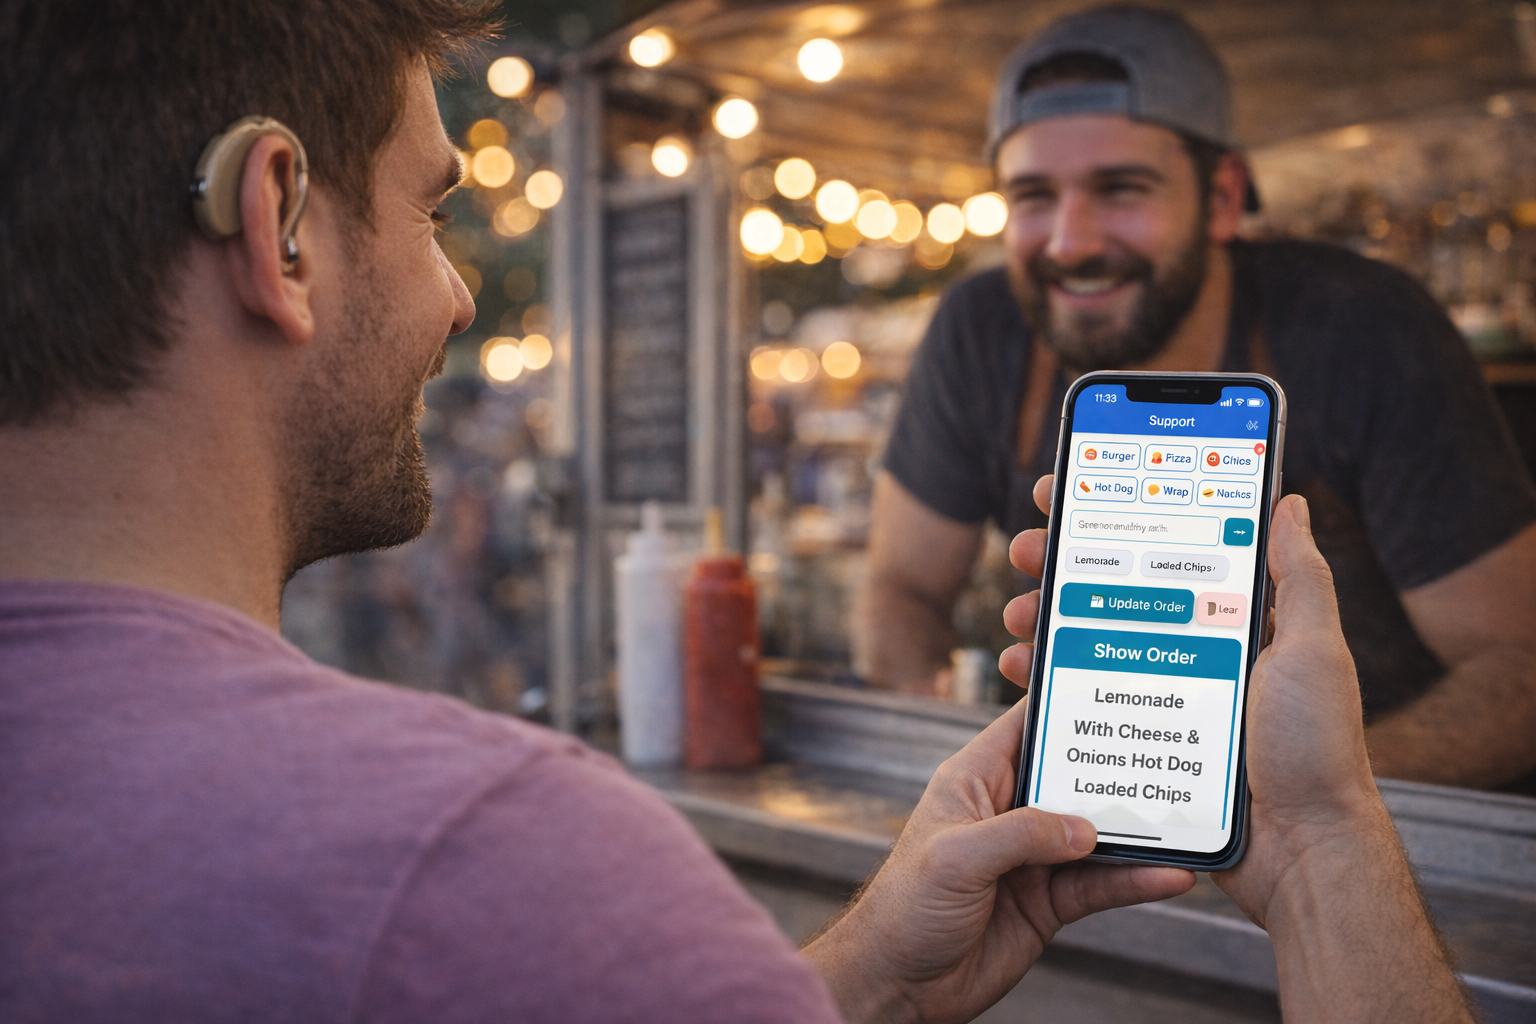
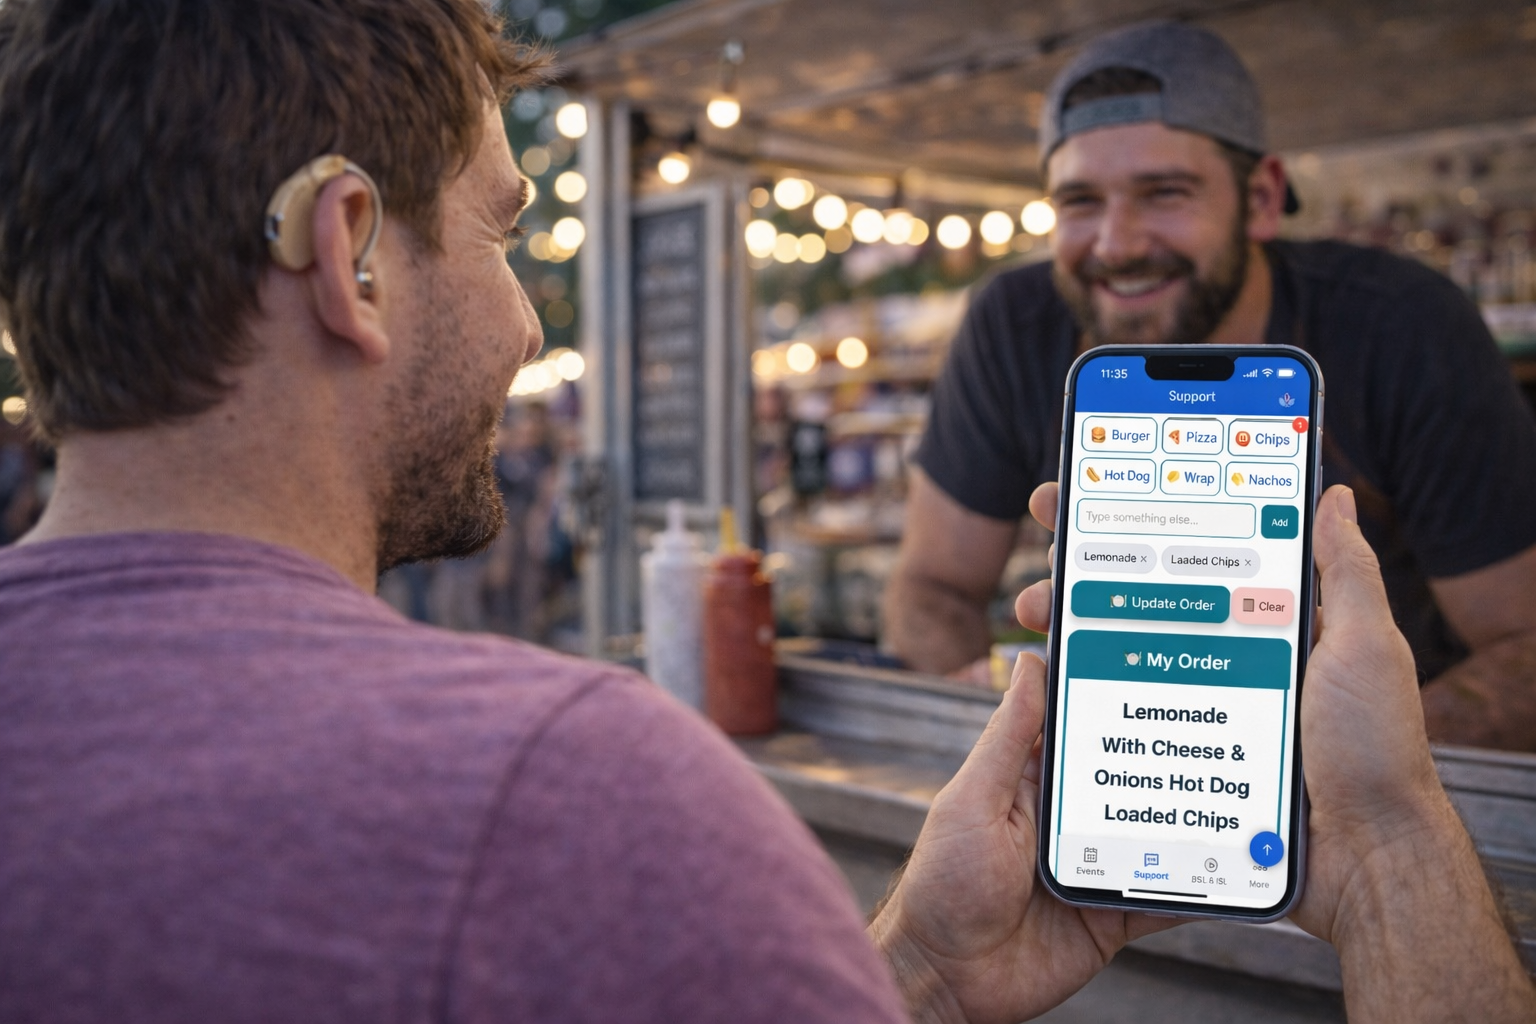
Uniform ordering section, app promo fixes, updated hero image
- Interpreters page: added PI uniform ordering section linking to Deco Apparel portal
- App promo modal: swapped to order video, neutral copy, hidden on /deaf-community and /app-guide
- Deaf community hero: updated composite image (ChatGPT-blended order screen on phone)

diff --git a/components/app-promo-banner.tsx b/components/app-promo-banner.tsx
@@ -1,14 +1,21 @@
 "use client";
 
 import { useState, useEffect, useRef } from "react";
+import { usePathname } from "next/navigation";
 import Link from "next/link";
 
+const HIDE_ON = ["/deaf-community", "/app-guide"];
+
 export default function AppPromoBanner() {
+  const pathname = usePathname();
   const [open, setOpen] = useState(false);
   const [dismissed, setDismissed] = useState(false);
   const videoRef = useRef<HTMLVideoElement>(null);
 
+  const hidden = HIDE_ON.some((p) => pathname.startsWith(p));
+
   useEffect(() => {
+    if (hidden) return;
     if (sessionStorage.getItem("app-promo-dismissed")) {
       setDismissed(true);
       return;
@@ -23,7 +30,7 @@ export default function AppPromoBanner() {
 
     window.addEventListener("scroll", onScroll, { passive: true });
     return () => window.removeEventListener("scroll", onScroll);
-  }, []);
+  }, [hidden]);
 
   useEffect(() => {
     if (open && videoRef.current) {
@@ -37,7 +44,7 @@ export default function AppPromoBanner() {
     sessionStorage.setItem("app-promo-dismissed", "1");
   }
 
-  if (dismissed) return null;
+  if (dismissed || hidden) return null;
 
   return (
     <>
@@ -77,7 +84,7 @@ export default function AppPromoBanner() {
           <div className="aspect-[1700/1004] w-full bg-black">
             <video
               ref={videoRef}
-              src="/videos/app-guide/request.mp4"
+              src="/videos/app-guide/order.mp4"
               muted
               loop
               playsInline
@@ -89,13 +96,13 @@ export default function AppPromoBanner() {
           {/* Content */}
           <div className="px-6 py-6 text-center sm:px-8 sm:py-8">
             <p className="text-xs font-semibold uppercase tracking-widest text-pi-accent">
-              Only with PI
+              The PI Events App
             </p>
             <h2 className="mt-2 font-display text-2xl text-white sm:text-3xl">
-              Your Deaf audience has a dedicated app
+              See the app in action
             </h2>
             <p className="mx-auto mt-3 max-w-lg text-sm leading-relaxed text-white/70 sm:text-base">
-              Request access, find events, order food, know your rights - all in one free app. Watch every feature in action.
+              Find events, order at the bar, know your rights - a free toolkit for Deaf audiences at live events.
             </p>
             <div className="mt-6 flex flex-wrap items-center justify-center gap-3">
               <Link

diff --git a/app/interpreters/page.tsx b/app/interpreters/page.tsx
@@ -296,6 +296,39 @@ export default function InterpretersPage() {
         </div>
       </section>
 
+      {/* ─── PI Uniform ─────────────────────────────────── */}
+      <section className="section-padding section-gap bg-pi-deep">
+        <div className="mx-auto max-w-4xl">
+          <div className="overflow-hidden rounded-2xl border border-white/10 bg-gradient-to-br from-white/[0.04] to-white/[0.01]">
+            <div className="flex flex-col items-center gap-8 p-8 text-center md:flex-row md:text-left md:p-12 md:gap-12">
+              <div className="flex h-20 w-20 shrink-0 items-center justify-center rounded-2xl bg-pi-accent/10">
+                <Icon name="shirt" size={36} className="text-pi-accent" />
+              </div>
+              <div className="flex-1">
+                <p className="text-xs font-semibold uppercase tracking-widest text-pi-accent">
+                  Team kit
+                </p>
+                <h2 className="mt-2 font-display text-2xl text-white md:text-3xl">
+                  Order your PI uniform
+                </h2>
+                <p className="mt-3 text-base leading-relaxed text-white/70">
+                  Branded PI interpreter gear - order direct from our kit portal. Polo shirts, t-shirts and accessories with the PI logo. Delivered to your door.
+                </p>
+              </div>
+              <a
+                href="http://performanceinterpreting.deco-apparel.com/"
+                target="_blank"
+                rel="noopener noreferrer"
+                className="shrink-0 inline-flex items-center gap-2 rounded-full bg-pi-accent px-7 py-3.5 text-sm font-semibold text-white shadow-lg shadow-pi-accent/25 transition-all duration-200 hover:brightness-110 hover:shadow-pi-accent/40"
+              >
+                Order kit
+                <Icon name="arrow-right" size={16} />
+              </a>
+            </div>
+          </div>
+        </div>
+      </section>
+
 {/* ContactCta removed - doesn't fit this page */}
     </>
   );
